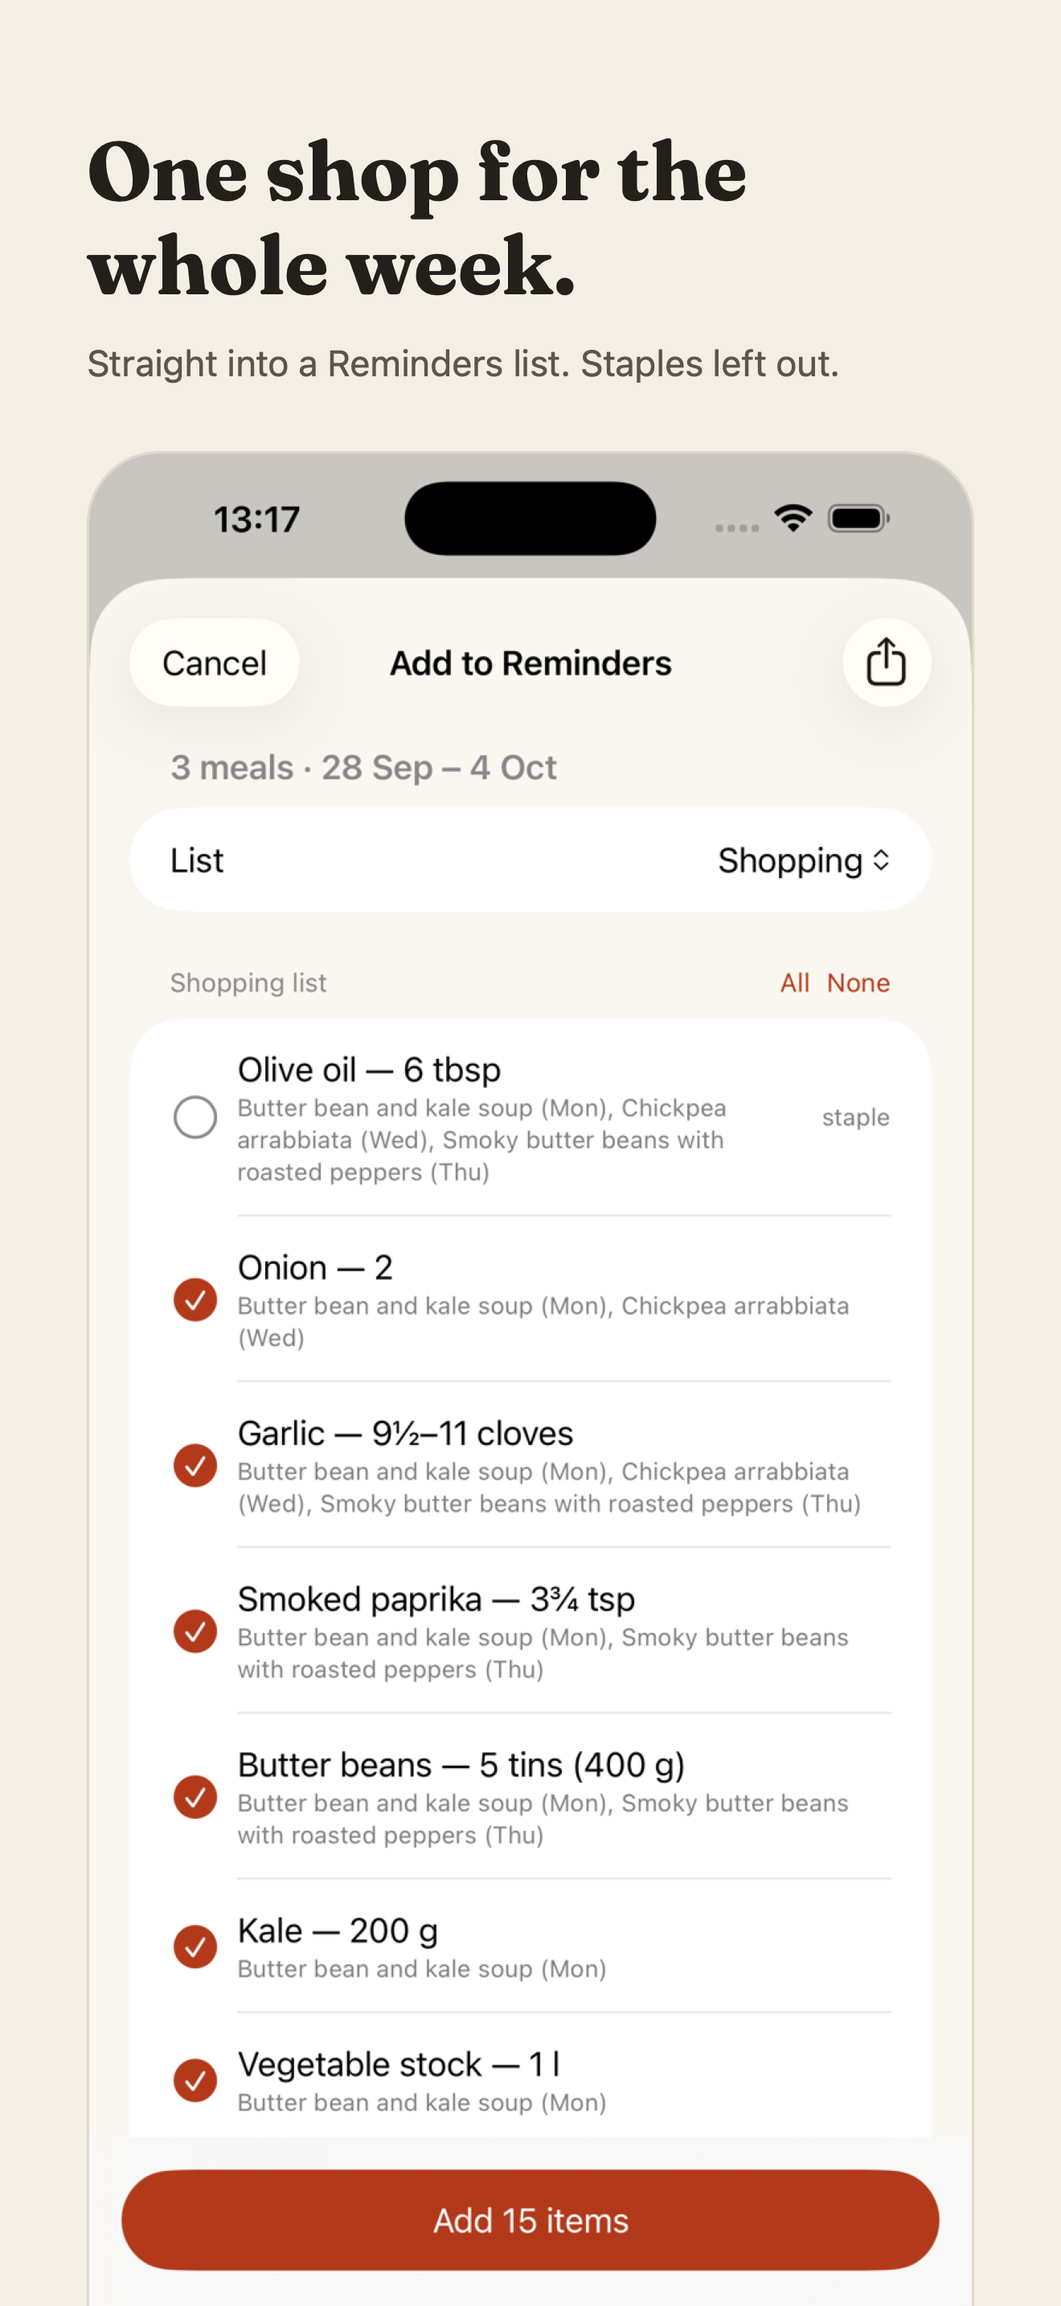
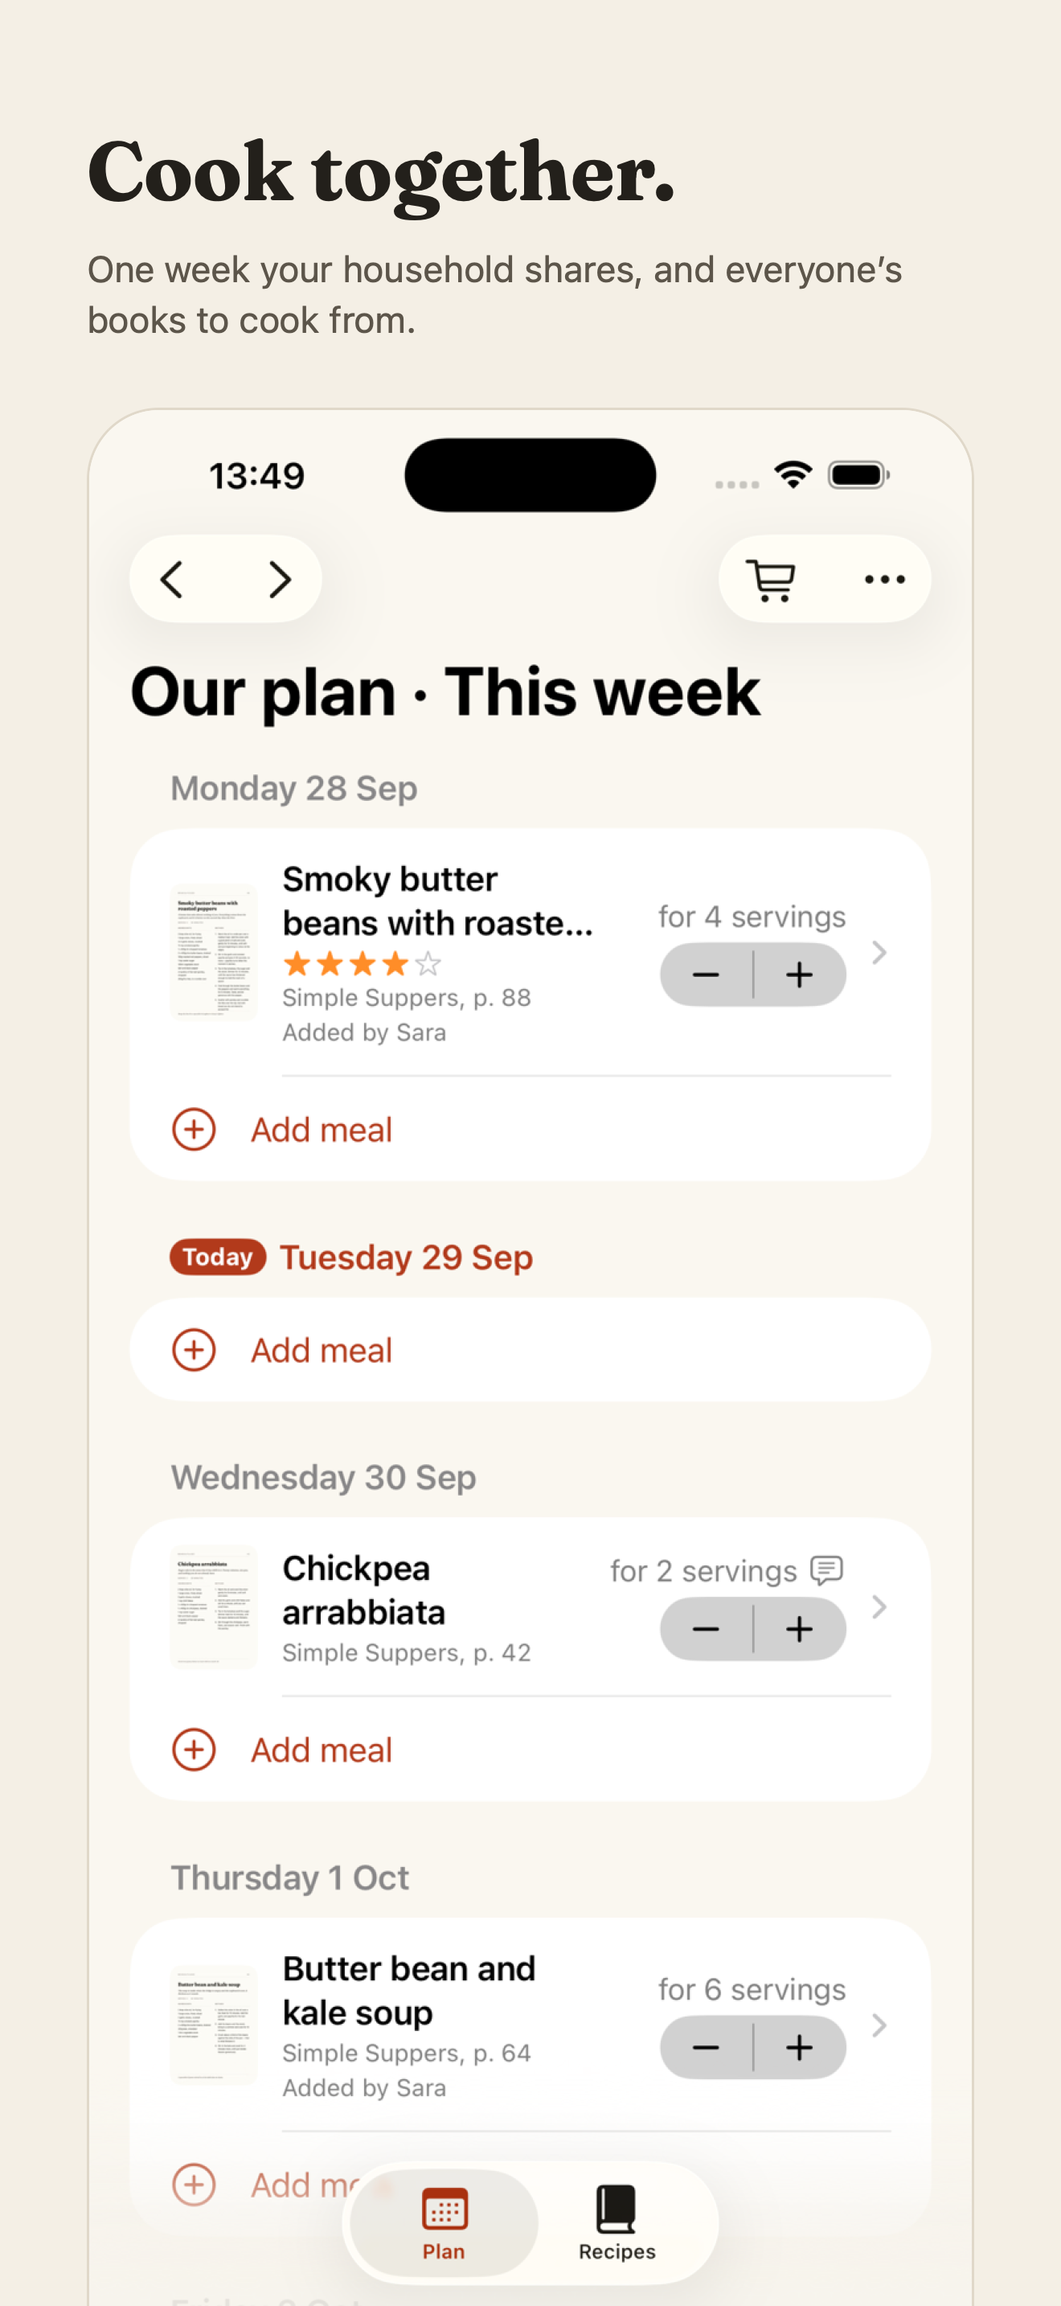
feat(ios): seed a household the Simulator cannot host, and shoot it
The listing leads with the household and had no screenshot of it. Hosting
needs an iCloud account and a subscription, so a simulator cannot make one,
and the phone-shot alternative could not be reshot when copy changed — and
the one attempt held pages from real published cookbooks, which
marketing/README.md rules out of our marketing.

HouseholdDemoSeed (#if DEBUG) writes the same SharedRecipe / SharedMeal /
SharedMemberRow rows the sync engine writes, projected from this device's own
library through SharedWeekProjection, through mainContext and nothing else.
Real UI, real rows; only their provenance is faked.

Sara's copies carry ids of their own on purpose. Reusing the library
recipe's id let projectLibrary claim them on join and rewrite authorID to
this device's empty one — the row survived intact and only "Added by Sara"
vanished, which was the whole point of the frame.

The iPhone set is seven now: "Cook together" is frame 5, after "Plan the
week", because it is about the week.

diff --git a/ios/RecipeBasket/Sharing/HouseholdDemoSeed.swift b/ios/RecipeBasket/Sharing/HouseholdDemoSeed.swift
@@ -1,0 +1,128 @@
+#if DEBUG
+import CloudKit
+import Foundation
+import RecipeCore
+import SwiftData
+
+/// Fills the household store with a demo household, so the household screens can be photographed.
+///
+/// **Why this exists.** The household is what the App Store listing now leads with, and it was the one screen
+/// with no marketing frame: hosting needs an iCloud account and a subscription, and the Simulator has neither,
+/// so the only way to photograph it was two real phones, two Apple Accounts and a real share. That meant the
+/// frame could not be reshot when copy changed — and the first attempt at one came off a phone whose plan held
+/// pages from real published cookbooks, which `marketing/README.md` rules out of our marketing.
+///
+/// What it seeds is **not fabricated UI**. The rows are the same `SharedRecipe` / `SharedMeal` /
+/// `SharedMemberRow` the sync engine writes, built from this device's own library through
+/// `SharedWeekProjection` — the same call the real projection makes — so every screen renders the real thing
+/// from real data. Only their provenance is faked: they arrive from here instead of from CloudKit.
+///
+/// `#if DEBUG`, so it cannot ship. It writes through `container.mainContext` and nothing else (rule 9e).
+@MainActor
+enum HouseholdDemoSeed {
+
+    /// A CloudKit user record name always starts with an underscore, and this stands in for one, so the demo
+    /// household's id has the shape a real one has. It is never sent anywhere: no engine runs for it.
+    static let authorID = "_demoHouseholdOwner"
+
+    /// Typed by its owner in the real thing — CloudKit will not name anybody (rule 9e) — so it is typed here.
+    static let ownerDisplayName = "Sara"
+
+    /// The same zone name every real household has; `Household.id` is `(zoneName, ownerName)`.
+    static var household: Household {
+        Household(
+            zoneID: CKRecordZone.ID(zoneName: SharedWeekZone.zoneName, ownerName: authorID),
+            title: ownerDisplayName
+        )
+    }
+
+    /// Seeds the household and puts it on display. Safe to run twice: it clears first.
+    ///
+    /// - Parameter library: this device's own store, which the demo recipes are projected from. Using the
+    ///   real library rather than invented rows is what gives the frame real thumbnails, real ingredients and
+    ///   real page references.
+    static func seed(plan: SharedPlanContext, library: ModelContext) {
+        clear(plan: plan)
+
+        let household = household
+        let householdID = household.id
+        let context = plan.container.mainContext
+
+        // Who the other person is. Both, because `HouseholdMembers` answers "Added by…" now and the row is
+        // what survives a relaunch.
+        plan.members.record(id: authorID, name: ownerDisplayName)
+        plan.members.recordOwner(of: householdID, name: ownerDisplayName)
+        context.insert(SharedMemberRow(
+            authorID: authorID, householdID: householdID,
+            displayName: ownerDisplayName, isOwner: true
+        ))
+
+        let recipes = (try? library.fetch(
+            FetchDescriptor<Recipe>(sortBy: [SortDescriptor(\.createdAt, order: .forward)])
+        )) ?? []
+        guard !recipes.isEmpty else { return }
+
+        // Alternating authorship, so the screen shows what a household actually looks like: some meals are
+        // the other person's and say so, some are yours and say nothing. An empty `authorID` is how a row
+        // this device cannot attribute reads, and it renders exactly as one of your own does.
+        var shared: [(UUID, String)] = []
+        for (index, recipe) in recipes.enumerated() {
+            let author = index.isMultiple(of: 2) ? authorID : ""
+            var fields = SharedWeekProjection.fields(for: recipe, authorID: author)
+            // **A fresh id, not the library recipe's.** Joining a household runs `projectLibrary`, which
+            // upserts this device's own recipes into it keyed on exactly that id — so a demo row reusing it
+            // is found, treated as this device's copy, and rewritten with this device's (empty) `authorID`
+            // moments after being written. The row survives; only "Added by Sara" quietly disappears, which
+            // is the whole point of the frame. Giving Sara's copies their own ids puts them outside what the
+            // projection owns, which is also what is true of a real member's recipes.
+            fields.id = UUID()
+            context.insert(SharedRecipe(
+                fields, householdID: householdID,
+                thumbnail: SharedWeekProjection.thumbnailJPEG(for: recipe)
+            ))
+            shared.append((fields.id, fields.title))
+        }
+
+        // Spread across the week the Plan tab is showing, so the frame is not one crowded day. Portions
+        // differ on purpose: "each meal at its own portions" is the thing to show.
+        let start = PlanWeek(containing: PlanDay(.now)).start
+        let placements: [(offset: Int, portions: Int, note: String)] = [
+            (0, 4, ""),
+            (2, 2, "Leon's out, so fewer"),
+            (3, 6, ""),
+            (5, 2, ""),
+        ]
+        for (index, placement) in placements.enumerated() where index < shared.count {
+            let (recipeID, title) = shared[index]
+            context.insert(SharedMeal(
+                SharedMealFields(
+                    id: UUID(),
+                    recipeID: recipeID,
+                    recipeTitle: title,
+                    dayKey: start.adding(days: placement.offset).isoString,
+                    order: 0,
+                    portions: placement.portions,
+                    note: placement.note
+                ),
+                householdID: householdID
+            ))
+        }
+
+        try? context.save()
+        // Last, so the week is already there the moment the screen switches to it.
+        plan.households.join(zoneID: household.zoneID, title: ownerDisplayName)
+    }
+
+    /// Removes only this demo household's rows — `SharedStore.empty(_:household:)`'s rule, not the whole
+    /// store, which is for signing out of iCloud (rule 9d).
+    static func clear(plan: SharedPlanContext) {
+        let householdID = household.id
+        let context = plan.container.mainContext
+        try? context.delete(model: SharedMeal.self, where: #Predicate { $0.householdID == householdID })
+        try? context.delete(model: SharedRecipe.self, where: #Predicate { $0.householdID == householdID })
+        try? context.delete(model: SharedMemberRow.self, where: #Predicate { $0.householdID == householdID })
+        try? context.save()
+        plan.households.leave(household)
+    }
+}
+#endif

diff --git a/ios/RecipeBasket/Settings/SettingsView.swift b/ios/RecipeBasket/Settings/SettingsView.swift
@@ -8,6 +8,10 @@ struct SettingsView: View {
     @Environment(SubscriptionStore.self) private var subscriptions
     @Environment(ScanQuota.self) private var quota
     @Environment(\.dismiss) private var dismiss
+    #if DEBUG
+    /// This device's own library, which `HouseholdDemoSeed` projects the demo household from.
+    @Environment(\.modelContext) private var modelContext
+    #endif
     let store: any RemindersStoring
     /// Households. Optional for the same reason it is everywhere else: the app works without the household
     /// store, it simply cannot share.
@@ -89,6 +93,22 @@ struct SettingsView: View {
 
                 if let plan {
                     SharePlanSection(plan: plan, presenting: $sharePresentation, onPaywall: { isShowingPaywall = true })
+                    #if DEBUG
+                    // The household is the one screen a simulator cannot reach — hosting needs an iCloud
+                    // account and a subscription — so the App Store frame for it had no way to be shot, or
+                    // reshot when copy changed. See `HouseholdDemoSeed`.
+                    Section {
+                        Button("Seed demo household (debug)") {
+                            HouseholdDemoSeed.seed(plan: plan, library: modelContext)
+                            dismiss()
+                        }
+                        Button("Clear demo household (debug)", role: .destructive) {
+                            HouseholdDemoSeed.clear(plan: plan)
+                        }
+                    } footer: {
+                        Text("Projects this device's own recipes into a demo household, so the household screens can be photographed. `marketing/README.md` says how the frames are made.")
+                    }
+                    #endif
                 }
 
                 Section {

diff --git a/marketing/tools/makeframes.py b/marketing/tools/makeframes.py
@@ -5,6 +5,9 @@ FRAMES = [
     ("review.png", "It reads the list for you.",            "Quantities, units and servings, straight off the page."),
     ("shot3b.png", "Cooking for one?",                      "Every line follows &#8212; and a quarter tin stays a quarter tin."),
     ("shot4.png",  "Plan the week.",                        "Every meal at its own number of portions."),
+    # The household is what the listing leads with, and it sits here because it is about the week — the frame
+    # before it. Its capture comes from `HouseholdDemoSeed`: a simulator cannot host a real household.
+    ("household.png", "Cook together.",                     "One week your household shares, and everyone&#8217;s books to cook from."),
     ("shot5.png",  "One shop for the whole week.",          "Straight into a Reminders list. Staples left out."),
     ("shot6.png",  "The books you already own.",            "No accounts, no web clipping, no database to subscribe to."),
 ]

diff --git a/marketing/README.md b/marketing/README.md
@@ -4,13 +4,13 @@ App Store screenshots and the cookbook pages they were shot against. The listing
 `docs/APPSTORE.md`.
 
 ```
-screenshots/iphone-6.9/   six frames, 1320 x 2868 (iPhone 17 Pro Max, native)
+screenshots/iphone-6.9/   seven frames, 1320 x 2868 (iPhone 17 Pro Max, native)
 screenshots/ipad-13/      three frames, 2064 x 2752 (iPad Pro 13-inch, native)
 pages/                    the cookbook pages, as HTML — our own recipes, not anyone's book
 tools/                    html2png.swift, makeframes.py, makeipad.py
 ```
 
-All nine are RGB with no alpha channel, which Apple requires.
+All ten are RGB with no alpha channel, which Apple requires.
 
 ## Why the pages are ours
 
@@ -39,7 +39,7 @@ python3 marketing/tools/makeipad.py      # iPad
 Captures come from `xcrun simctl io <device> screenshot`, which writes at native resolution — that is what
 guarantees Apple's accepted dimensions rather than resizing afterwards.
 
-All nine were **reshot 2026-09-29**, on the iPhone 17 Pro Max and iPad Pro 13-inch (M5) simulators, against
+All were **reshot 2026-09-29**, on the iPhone 17 Pro Max and iPad Pro 13-inch (M5) simulators, against
 the copy as it stands today. The previous set was shot 2026-09-23 and had gone stale in two ways: frame 1 read
 "17 of 20 free scans left" from the pre-2026-09-23 limits, and it carried the capture help text that was
 reversed on 2026-09-29 (see `docs/DECISIONS.md`).
@@ -57,13 +57,34 @@ screen where the claim is proved further down:
 The week is Monday 4 portions, Wednesday 2, Thursday 6, so "each meal at its own portions" is visible rather
 than asserted.
 
+## The household frame, and how it is possible at all
+
+Frame 5 is the household — the thing the listing leads with, and for a while the one screen with no frame.
+A simulator cannot host a household: hosting needs an iCloud account and a subscription, and the Simulator has
+neither. Shooting it on real phones works, but it cannot be *re*shot when copy changes without two people, two
+Apple Accounts and a live share — and the first attempt came off a phone whose plan held pages from real
+published cookbooks, which is exactly what the section above rules out.
+
+So the app seeds it. `HouseholdDemoSeed` (`#if DEBUG`, in `ios/RecipeBasket/Sharing/`) writes the same
+`SharedRecipe` / `SharedMeal` / `SharedMemberRow` rows the sync engine writes, projected from this device's own
+library through `SharedWeekProjection` — the same call the real projection makes. Every pixel is the real UI
+rendering real rows; only their provenance is faked. **Settings → Seed demo household (debug)**, then shoot the
+Plan tab.
+
+Two things it has to get right, both learned the hard way:
+
+- **Sara's recipes need ids of their own.** Joining a household runs `projectLibrary`, which upserts this
+  device's recipes into it keyed on the library recipe's id. A demo row reusing that id is found, taken for
+  this device's copy and rewritten with this device's (empty) `authorID` — so the row survives and only
+  "Added by Sara" quietly disappears, which is the entire point of the frame.
+- **Set "Your name" first.** It is what the Settings frame shows, and it is blank on a fresh simulator.
+
 ## Before these go to App Store Connect
 
-1. **There is still no household frame**, and the listing now leads with the household. A simulator cannot
-   produce one: hosting needs an iCloud account and a subscription, and the Simulator has neither. This one
-   has to be shot on a device that is already in a household — see `docs/APPSTORE.md`.
-2. The iPad export sheet sits as a form sheet over the plan and does not use the width well. It is honest,
-   and it does at least show the week behind the list, but it is the weakest of the nine.
+1. The iPad export sheet sits as a form sheet over the plan and does not use the width well. It is honest,
+   and it does at least show the week behind the list, but it is the weakest of the ten.
+2. There is no iPad household frame. The same seeder works there — copy the container across as below, then
+   seed — it simply has not been shot.
 
 ## Reshooting
 

diff --git a/docs/DECISIONS.md b/docs/DECISIONS.md
@@ -992,3 +992,33 @@ release-checklist item rather than something that can be done here.
 **The iPad library was seeded by copying the app's data container** rather than scanning three pages again —
 faster, free, and it guarantees the two devices show the same week. Written down in `marketing/README.md`,
 because the obvious alternative costs scans and real money each time.
+
+### 2026-09-29 · The household frame, and seeding a household the Simulator cannot host
+
+The listing leads with the household and there was no screenshot of it, for a reason that looked structural:
+hosting needs an iCloud account and a subscription, and the Simulator has neither. Shooting it on two real
+phones works once — Leon did, and the result showed the problem with doing it that way. The plan held pages
+from *real published cookbooks*, titles and photographs both, which `marketing/README.md` has ruled out of our
+marketing since the pages were written ("it is someone else's book in our marketing"). And a frame that needs
+two people, two Apple Accounts and a live share cannot be reshot when copy changes — which it just had been,
+twice in a day.
+
+**So the app seeds one.** `HouseholdDemoSeed` is `#if DEBUG`, and what it writes is not a mock: the same
+`SharedRecipe` / `SharedMeal` / `SharedMemberRow` rows the sync engine writes, projected from this device's own
+library through `SharedWeekProjection` — the same call the real projection makes — through `mainContext` and
+nothing else (rule 9e). Every pixel is the real UI rendering real rows. Only their provenance is faked.
+
+**The bug it hit is worth keeping, because it is rule 9e's first bullet wearing a different hat.** Seeded rows
+that reused the library recipe's `id` lost their author within a second: joining a household runs
+`projectLibrary`, which upserts this device's recipes keyed on exactly that id, finds the demo row, takes it for
+this device's copy and rewrites `authorID` to this device's empty one. The row survived and looked right —
+title, thumbnail, book, page — and only "Added by Sara" disappeared, which was the whole point of the frame.
+Silent, plausible, and visible only by knowing what should have been on screen. Sara's copies now carry ids of
+their own, which is also what is true of a real member's recipes.
+
+The frame is **"Cook together"**, fifth of seven, placed after "Plan the week" because it is about the week.
+Two meals are Sara's and say so, one is the reader's and says nothing, and it carries a note bubble — the
+household as it actually looks, rather than an invite sheet or a settings list.
+
+**What this does not cover:** the CloudKit sharing sheet, acceptance, and anything else needing two real
+accounts. Those still need phones, and still need App Review notes (checklist item 10).

diff --git a/docs/APPSTORE.md b/docs/APPSTORE.md
@@ -225,9 +225,12 @@ Do not add accessibility to **Helpful details** until it is checked on a device.
 5. ~~Screenshots.~~ Nine frames, **reshot 2026-09-29** against the current copy and the current limits — the
    2026-09-23 set showed "17 of 20 free scans left" and the capture help text that was reversed the same day.
    Three of them now prove their headline in the picture rather than near it. See `marketing/README.md`.
-   **Still missing: a household frame**, which the listing now leads with. It cannot be shot on a simulator —
-   hosting needs an iCloud account and a subscription — so it has to come from a device already in a
-   household, alongside item 10's review notes.
+   ~~**Still missing: a household frame**, which the listing now leads with.~~ Shot 2026-09-29 and now
+   **frame 5 of seven**, "Cook together" — the shared week with "Added by Sara" on two meals and the reader's
+   own on a third. A simulator cannot host a household, so the app seeds one: `HouseholdDemoSeed` (`#if DEBUG`)
+   writes the same rows the sync engine writes, projected from this device's own library. That also means the
+   frame can be **reshot whenever copy changes**, which a frame needing two phones and two Apple Accounts
+   could not. See `marketing/README.md`.
 6. ~~A large-type pass.~~ Done 2026-09-23: Leon walked the recipe screen, export sheet, Settings, Review
    and the paywall on an iPad at the largest accessibility text size, and nothing broke. Code-side fixes
    landed the same day (see `docs/DECISIONS.md`).
